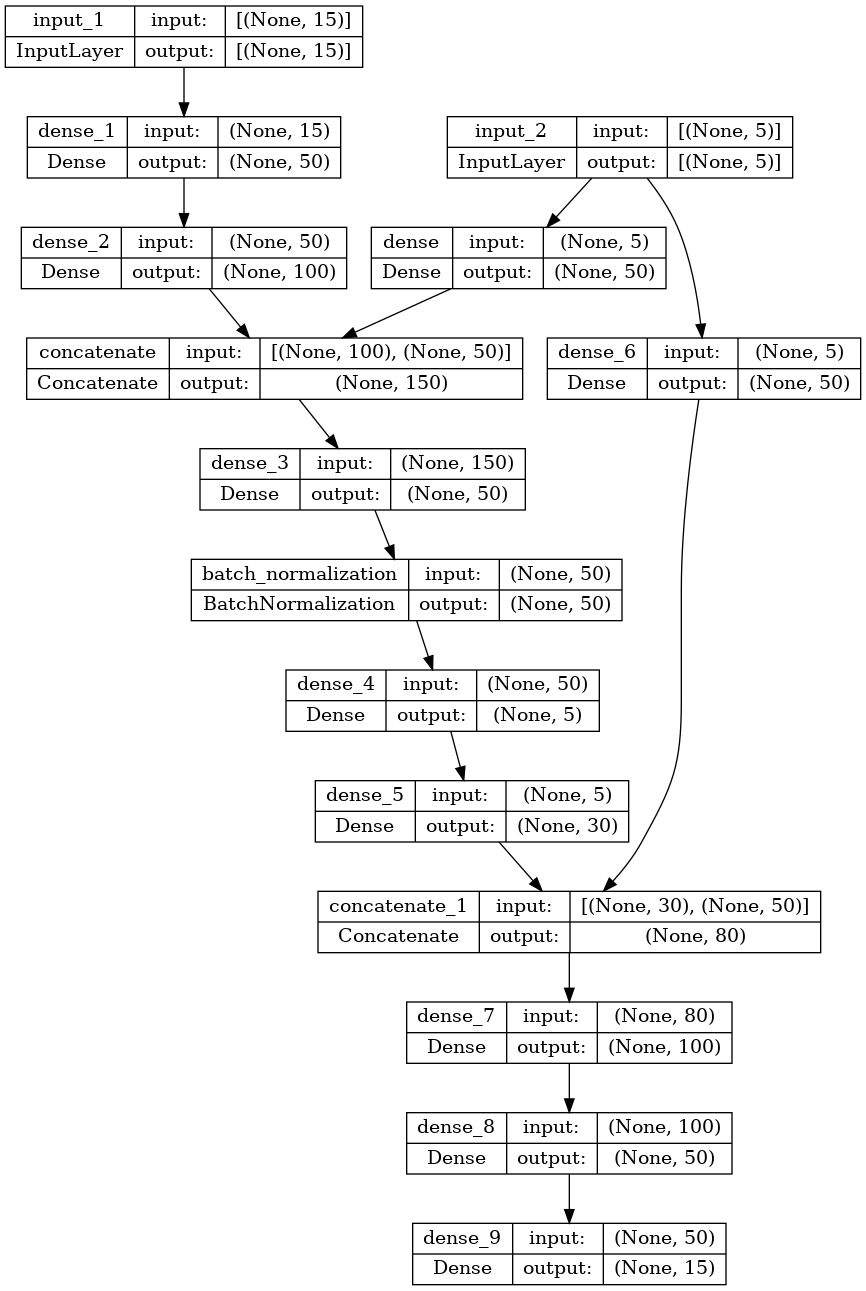
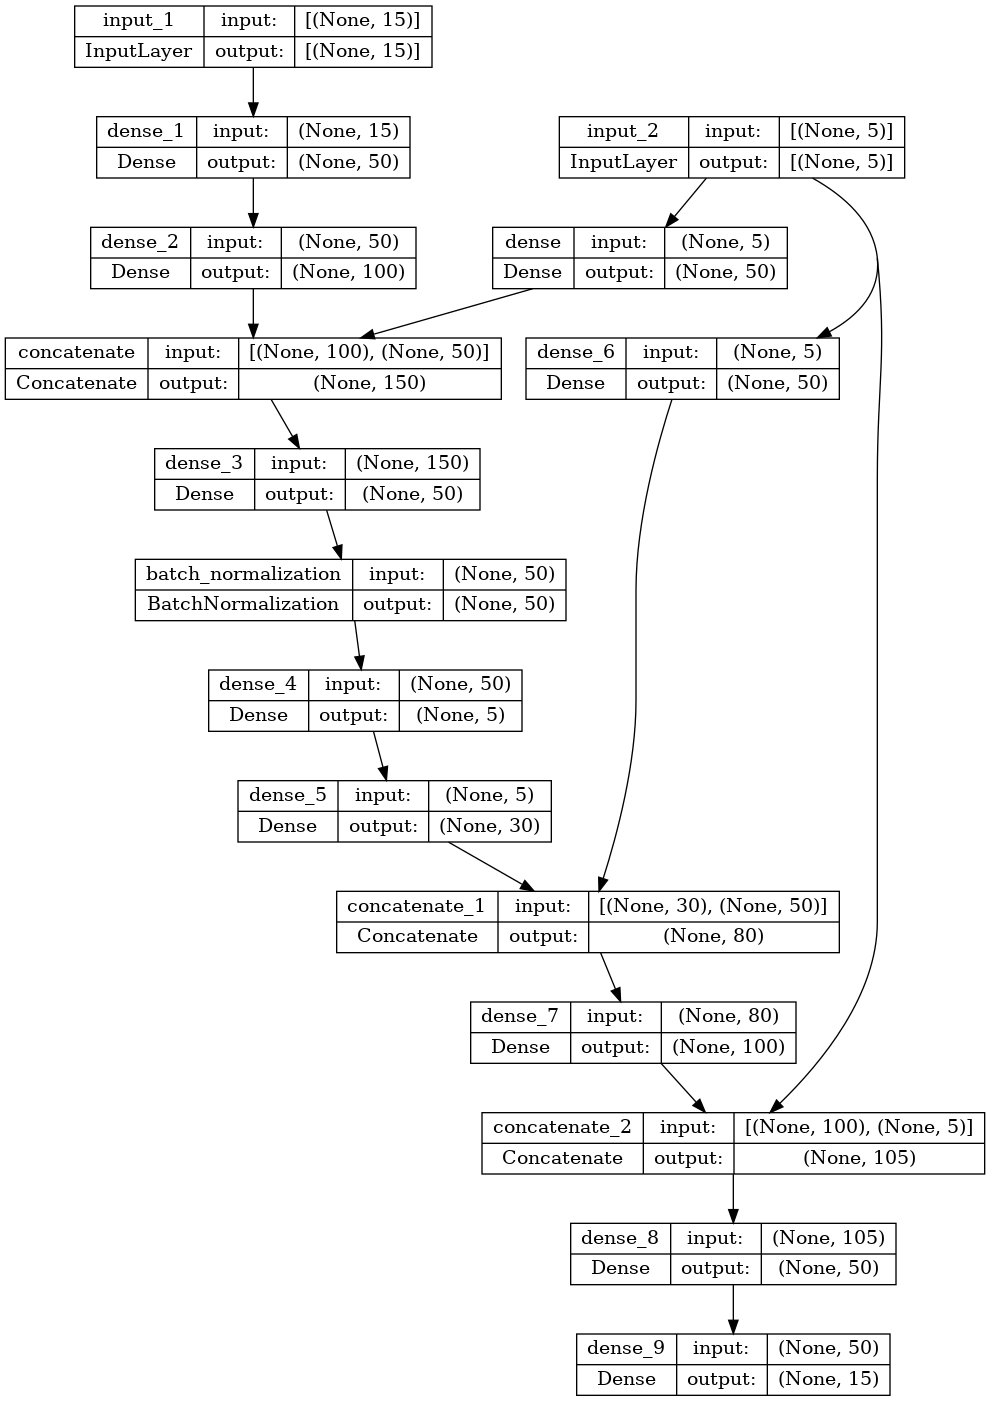
Modified model and residual graphs.

Changed region(s): [[0.0, 0.0, 0.9977, 1.0]]

diff --git a/main.py b/main.py
@@ -29,7 +29,7 @@ def print_cov(cov):
     print((cov[4], cov[8], cov[11], cov[13], cov[14]))
 
 def hist_res(res, n_bins=50, title='Residuals distribution', x_label='x label',
-             y_label='y label'):
+             y_label='Residuals'):
     '''Take residuals and plot histogram. 
     '''
     plt.hist(res, n_bins)
@@ -90,6 +90,7 @@ def save_instance(filename, inst):
             with open(filename, 'wb') as inst_file:
                 pickle.dump(arr, inst_file)
     except: print("Error in save_instance.")
+ 
 
 #---------------------------------------------------------------------MAIN
 if __name__ == "__main__":
@@ -117,72 +118,6 @@ if __name__ == "__main__":
     cov_train, cov_test, par_train, par_test = train_test_split(cov, par, test_size=0.9, random_state=42)
     print(f'cov_train size = {cov_train.size}')
     print(f'par_train size = {par_train.size}')
-
-    '''
-    ##Create an autoencoder model.
-    #Input data.
-    input_data = Input(shape=(15,))  
-    #Input parameters for conditioning.
-    input_params = Input(shape=(5,))
-    #Concatenate the two input layers.
-
-    #Encoder.
-    hidden=Dense(50,activation='relu')(input_data)
-    hidden=Dense(100,activation='relu')(hidden)
-    hidden=Dense(100,activation='relu')(hidden)
-    concat = Concatenate()([hidden, input_params])
-    hidden=Dense(30,activation='relu')(concat)
-    hidden = BatchNormalization()(hidden)
-
-    code=Dense(5,activation='sigmoid')(hidden) #Encoded.
-
-    #Decoder.
-    hidden=Dense(30,activation='relu')(code)
-    hidden=Dense(100,activation='relu')(hidden)
-    hidden=Dense(100,activation='relu')(hidden)
-    hidden=Dense(50,activation='relu')(hidden)
-    #Output.
-    outputs = Dense(15, activation='linear')(hidden)
-    '''
-    '''
-    input_data = Input(shape=(15,))  
-    #Input parameters for conditioning.
-    input_params = Input(shape=(5,))
-    #Concatenate the two input layers.
-    hidden1 = hidden=Dense(32,activation='relu')(input_data)
-    hidden2 = hidden=Dense(16,activation='relu')(input_params)
-    concat = Concatenate()([hidden1, hidden2])
-    hidden=Dense(128,activation='relu')(concat)
-    hidden=Dense(64,activation='relu')(hidden)
-    hidden=Dense(32,activation='relu')(hidden)
-    hidden=Dense(16,activation='relu')(hidden)
-    hidden=Dense(64,activation='relu')(hidden)
-    hidden=Dense(16,activation='relu')(hidden)
-    concat = Concatenate()([hidden, hidden2])
-    #Encoder.
-    hidden=Dense(64,activation='relu')(hidden)
-   
-   #hidden = BatchNormalization()(hidden)
-    #concat = Concatenate()([hidden, input_params])
-    #hidden=Dense(32,activation='relu')(hidden)
-    hidden = BatchNormalization()(hidden)
-
-    code=Dense(5,activation='sigmoid')(hidden) #Encoded.
-    #xdd
-    #Decoder.
-    hidden=Dense(64,activation='relu')(hidden)
-    hidden=Dense(16,activation='relu')(hidden)
-    hidden=Dense(16,activation='relu')(code)
-    hidden=Dense(32,activation='relu')(hidden)
-    hidden=Dense(64,activation='relu')(hidden)
-    hidden=Dense(128,activation='relu')(hidden)
-
-    #hidden = BatchNormalization()(hidden)
-    #hidden=Dense(64,activation='relu')(hidden)
-    #Output.
-    hidden = Dropout(0.2)(hidden)
-    outputs = Dense(15, activation='linear')(hidden)
-    '''
     
     ##Create an autoencoder model.
     #Input data.
@@ -204,8 +139,9 @@ if __name__ == "__main__":
     #Decoder.
     hidden = Dense(30,activation='relu')(code)
     hidden3 = Dense(50,activation='relu')(input_params)
-    hidden = Dense(100,activation='relu')(hidden)
     concat = Concatenate()([hidden, hidden3])
+    hidden = Dense(100,activation='relu')(concat)
+    concat = Concatenate()([hidden, input_params])
     hidden = Dense(50,activation='relu')(concat)
     #Output.
     outputs = Dense(15, activation='linear')(hidden)
@@ -224,8 +160,8 @@ if __name__ == "__main__":
     #Dictionary for training settings
     dt = {
         "validation_split" : 0.5,
-        "epochs" : 500,
-        "batch_size" : 50,
+        "epochs" : 10,
+        "batch_size" : 100,
         #Early stopping settings.
         "EarlyStopping_monitor" : "val_loss",
         "EarlyStopping_patience" : 75,
@@ -251,7 +187,7 @@ if __name__ == "__main__":
     plt.show()
 
     input("Press a button to continue")
-
+    '''
     ##Save instance in log.
     inp = input("Press 'y' if you want to save this instance.")
     if inp == "y":
@@ -267,7 +203,7 @@ if __name__ == "__main__":
 
     ##Encoder-decoder division.
     encoder = Model(inputs=[input_data, input_params], outputs=code)
-    decoder = Model(inputs=code , outputs=outputs)
+    decoder = Model(inputs=[code, input_params] , outputs=outputs)
     print("Prediction of ")
     encoded_cov = encoder.predict([cov_test[0:2, :], par_test[0:2, :]])
     print(encoded_cov)
@@ -275,15 +211,24 @@ if __name__ == "__main__":
     print(f'nbytes original matrix: {cov_test[0:2,:].nbytes}')
 
     input("Press a button to continue")
+    '''
 
     ##Test
-    test_data = cov_test[0:1*10**6, :]
-    test_params = par_test[0:1*10**6, :]
+    test_data, A, test_params, B = train_test_split(cov_test, par_test, test_size=0.9, random_state=42)
+    
+    #test_data = cov_test[0:1*10**6, :]
+    #test_params = par_test[0:1*10**6, :]
     cov_pred = model.predict([test_data, test_params])
 
-    for i in range(15):
-        print(f'i = {i}')
-        hist_res(test_data[:,i]-cov_pred[:,i], n_bins=30)
+    print(test_data.shape)
+    print(cov_pred.shape)
+    
+    index = [0, 5, 9, 12, 14]
+    x_labels = ['qoverp', 'lambda', 'phi', 'dxy', 'dsz']
+
+    for i, elem in enumerate(index):
+        print(f'i = {elem}')
+        hist_res(test_data[:, elem] - cov_pred[:, elem], n_bins=30, x_label = x_labels[i])
         plt.show()
         
 
